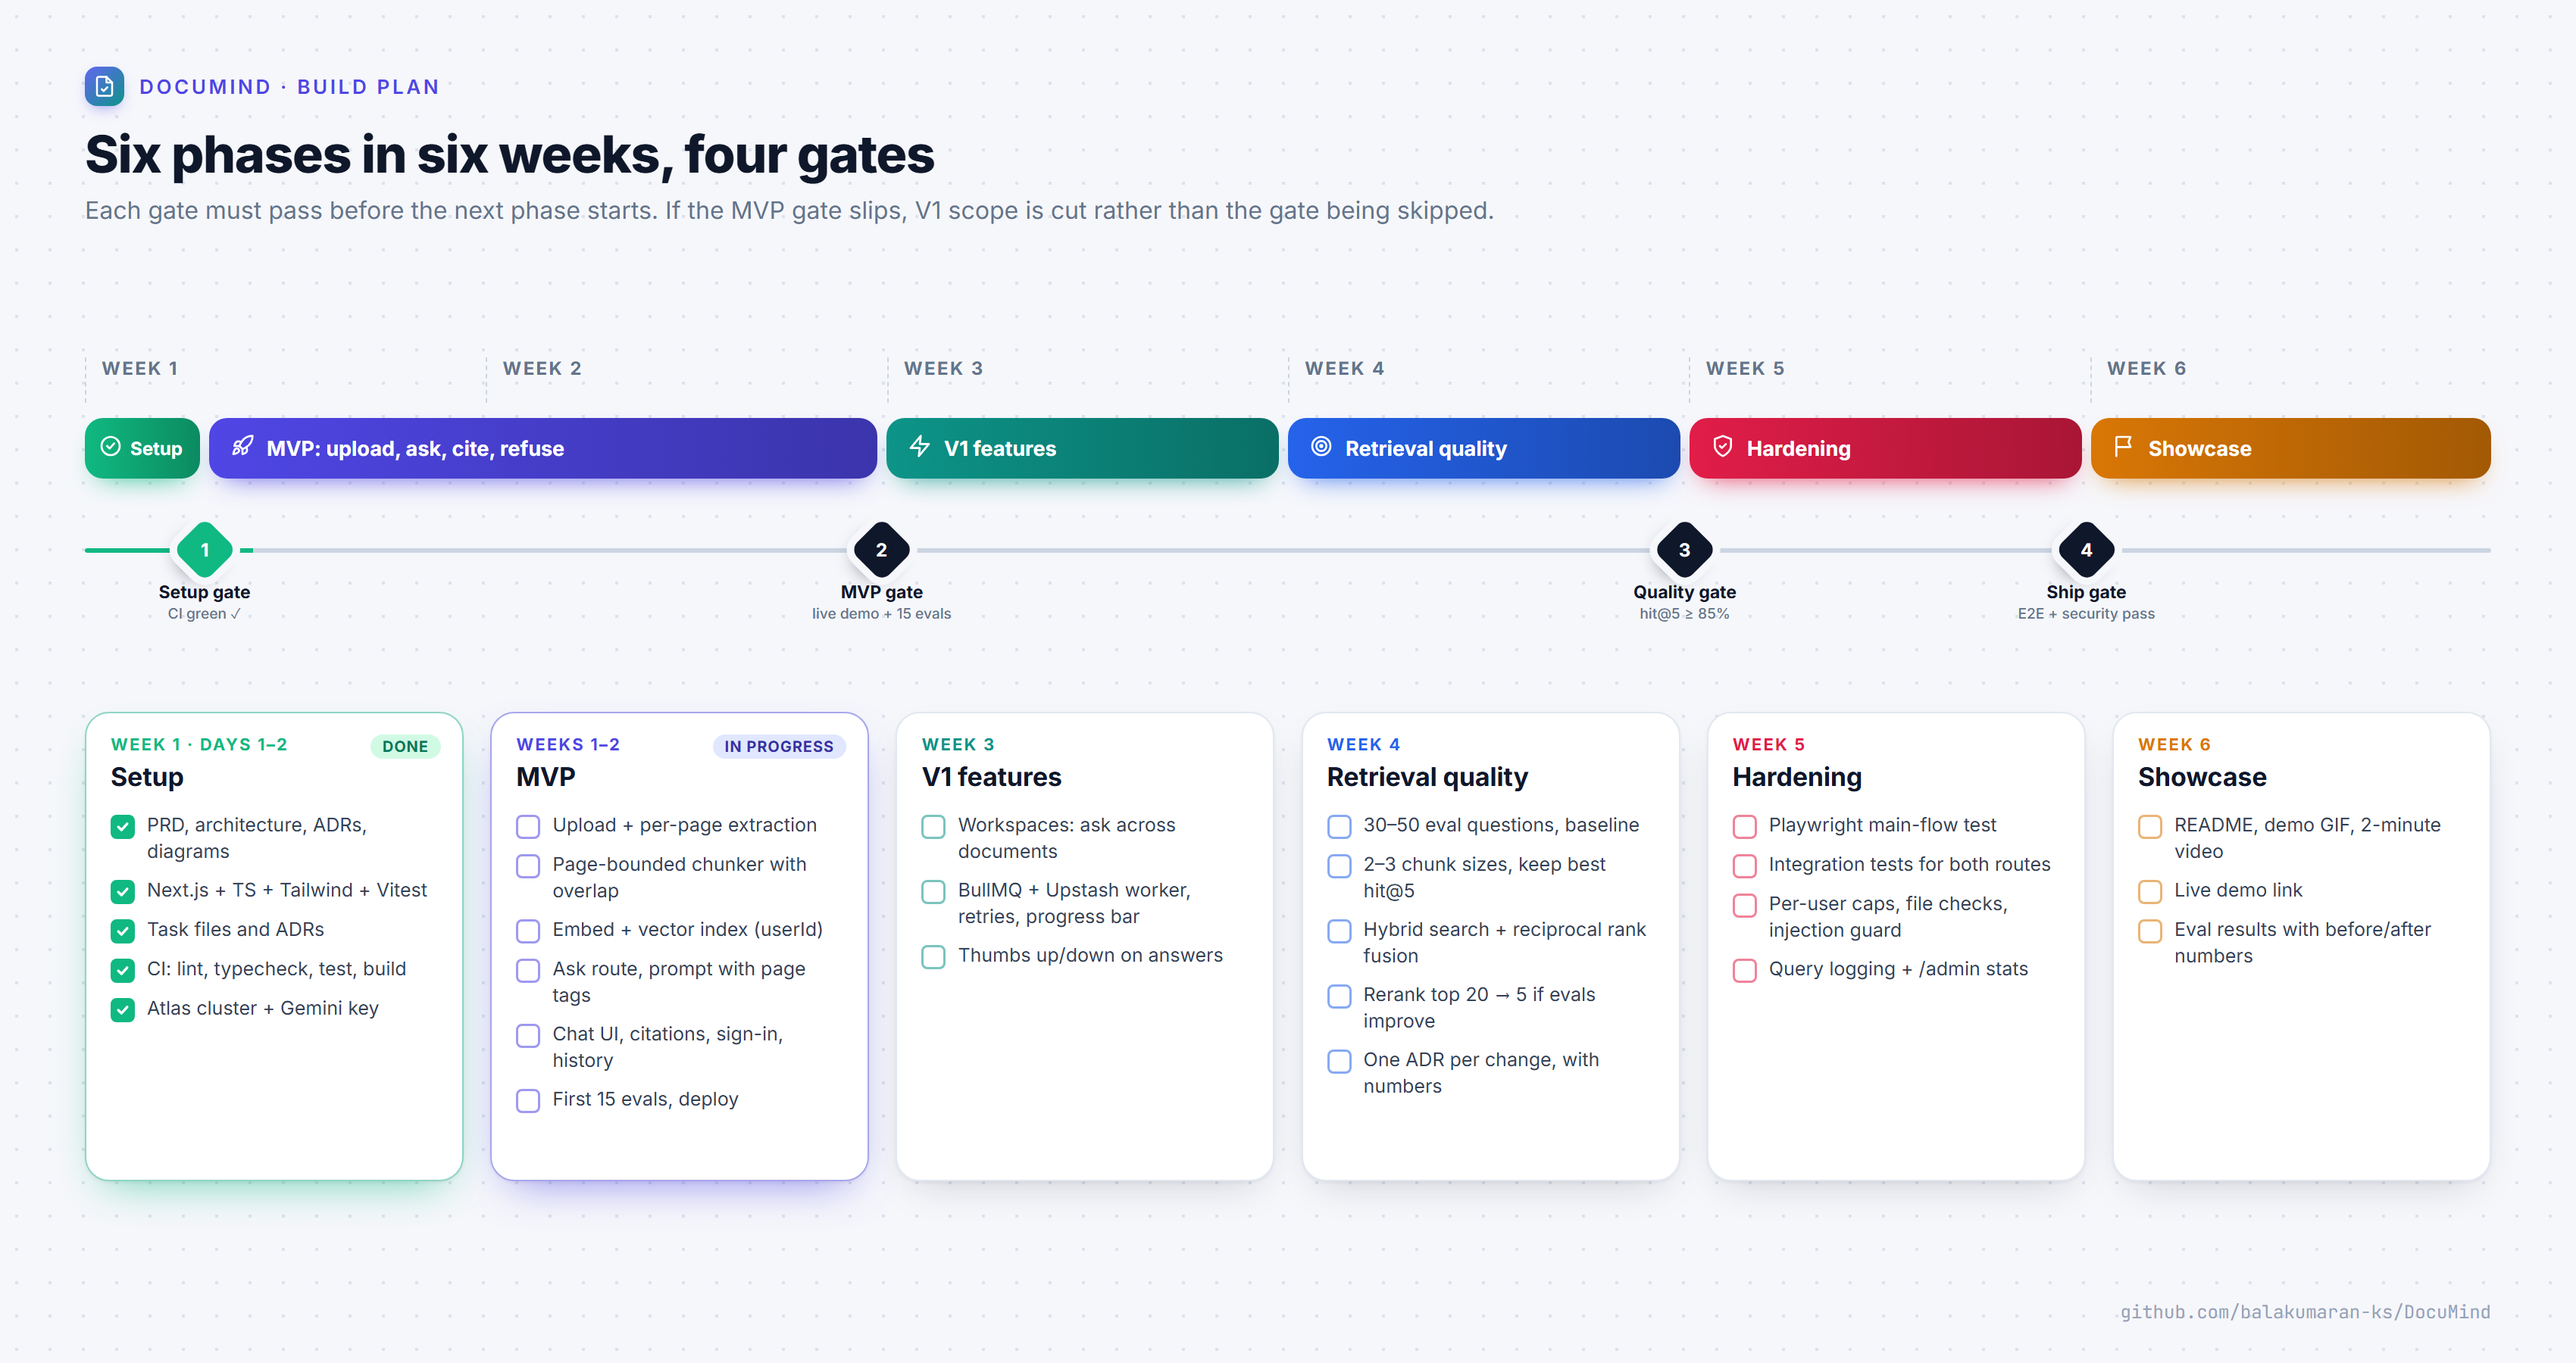
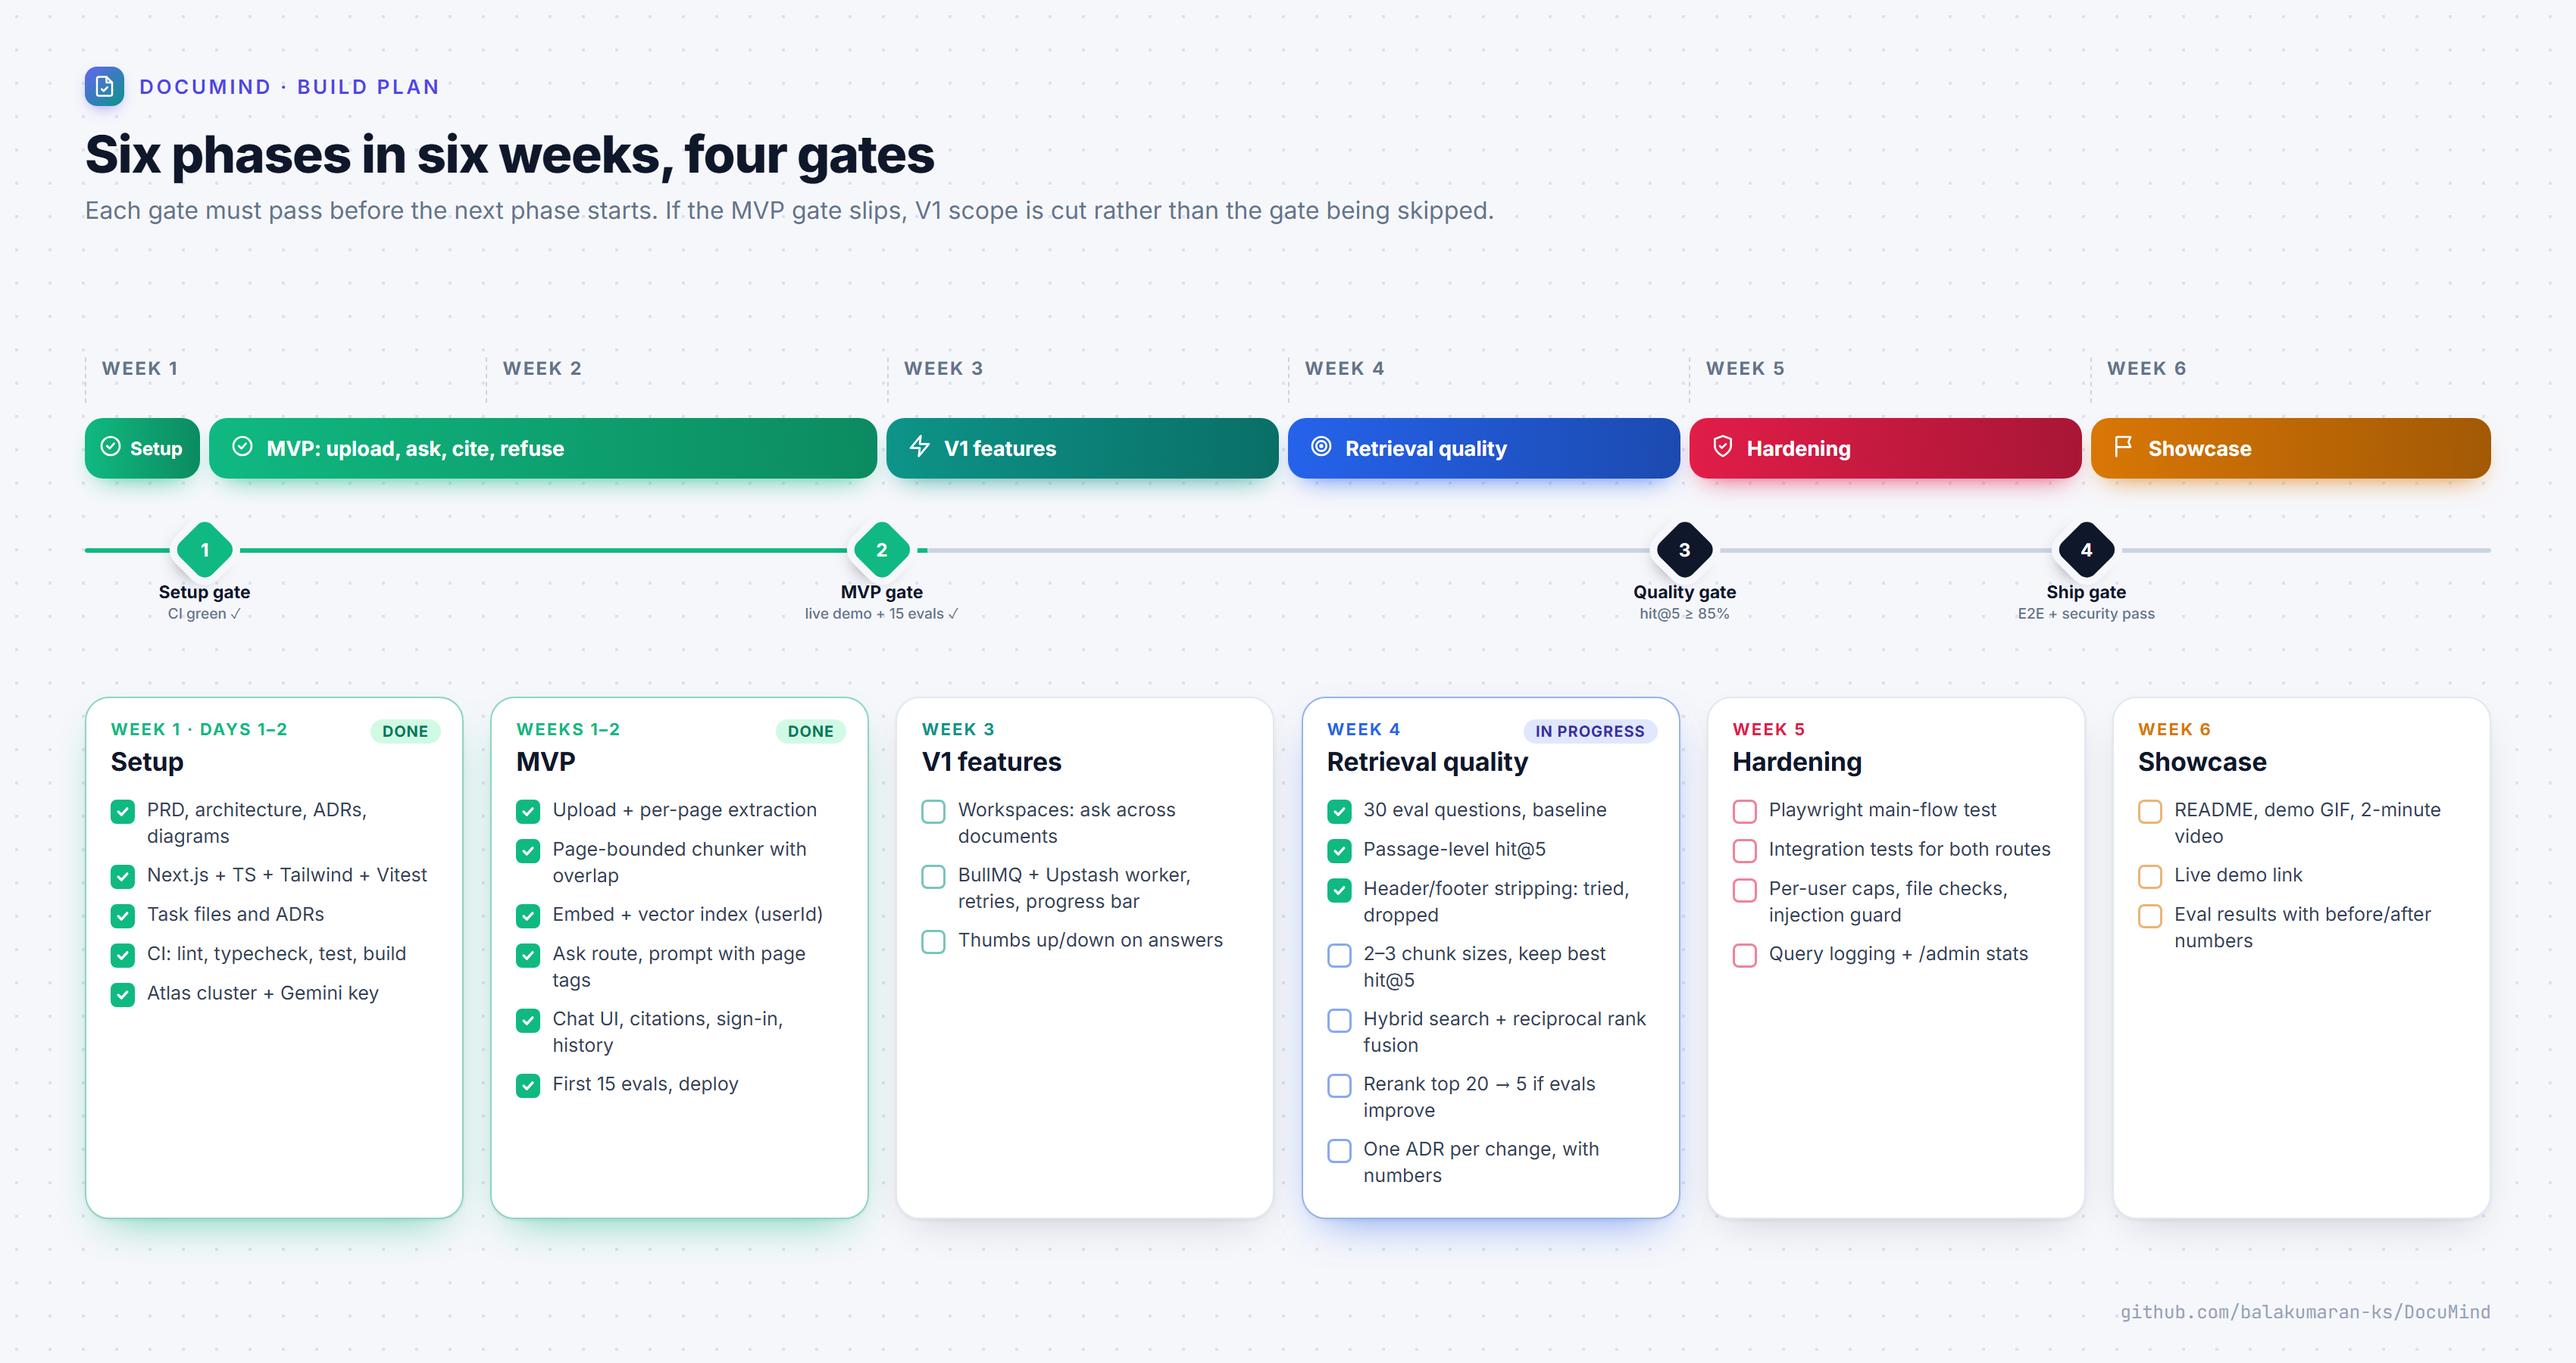
Mark the MVP done and retrieval quality in progress on the roadmap

diff --git a/docs/diagrams/roadmap.html b/docs/diagrams/roadmap.html
@@ -95,14 +95,14 @@
         width: 1588px;
         height: 3px;
         border-radius: 2px;
-        background: linear-gradient(90deg, #10b981 0 7%, #cbd5e1 7% 100%);
+        background: linear-gradient(90deg, #10b981 0 35%, #cbd5e1 35% 100%);
       }
       .phase {
         position: absolute;
         z-index: 3;
-        top: 470px;
+        top: 460px;
         width: 250px;
-        height: 310px;
+        height: 345px;
         flex-direction: column;
         gap: 0;
       }
@@ -188,7 +188,7 @@
 
     <!-- one week = 264.67px starting at x=56 -->
     <div class="bar" style="--c: #10b981; left: 56px; width: 76px; padding: 0 9px; gap: 5px; font-size: 12px"><span data-icon="check"></span>Setup</div>
-    <div class="bar" style="--c: var(--indigo); left: 138px; width: 441px"><span data-icon="rocket"></span>MVP: upload, ask, cite, refuse</div>
+    <div class="bar" style="--c: #10b981; left: 138px; width: 441px"><span data-icon="check"></span>MVP: upload, ask, cite, refuse</div>
     <div class="bar" style="--c: var(--teal); left: 585px; width: 259px"><span data-icon="zap"></span>V1 features</div>
     <div class="bar" style="--c: var(--blue); left: 850px; width: 259px"><span data-icon="target"></span>Retrieval quality</div>
     <div class="bar" style="--c: var(--rose); left: 1115px; width: 259px"><span data-icon="shield"></span>Hardening</div>
@@ -196,7 +196,7 @@
 
     <div class="rail"></div>
     <div class="gate" style="left: 135px"><div class="diamond" style="background: #10b981"><b>1</b></div><div class="glabel">Setup gate<small>CI green &check;</small></div></div>
-    <div class="gate" style="left: 582px"><div class="diamond"><b>2</b></div><div class="glabel">MVP gate<small>live demo + 15 evals</small></div></div>
+    <div class="gate" style="left: 582px"><div class="diamond" style="background: #10b981"><b>2</b></div><div class="glabel">MVP gate<small>live demo + 15 evals &check;</small></div></div>
     <div class="gate" style="left: 1112px"><div class="diamond"><b>3</b></div><div class="glabel">Quality gate<small>hit@5 &ge; 85%</small></div></div>
     <div class="gate" style="left: 1377px"><div class="diamond"><b>4</b></div><div class="glabel">Ship gate<small>E2E + security pass</small></div></div>
 
@@ -212,17 +212,17 @@
         <li class="done">Atlas cluster + Gemini key</li>
       </ul>
     </div>
-    <div class="node phase accent" style="--c: var(--indigo); left: 323.6px">
-      <span class="status next">IN PROGRESS</span>
+    <div class="node phase accent" style="--c: #10b981; left: 323.6px">
+      <span class="status done">DONE</span>
       <div class="wk">Weeks 1&ndash;2</div>
       <div class="title">MVP</div>
       <ul>
-        <li>Upload + per-page extraction</li>
-        <li>Page-bounded chunker with overlap</li>
-        <li>Embed + vector index (userId)</li>
-        <li>Ask route, prompt with page tags</li>
-        <li>Chat UI, citations, sign-in, history</li>
-        <li>First 15 evals, deploy</li>
+        <li class="done">Upload + per-page extraction</li>
+        <li class="done">Page-bounded chunker with overlap</li>
+        <li class="done">Embed + vector index (userId)</li>
+        <li class="done">Ask route, prompt with page tags</li>
+        <li class="done">Chat UI, citations, sign-in, history</li>
+        <li class="done">First 15 evals, deploy</li>
       </ul>
     </div>
     <div class="node phase" style="--c: var(--teal); left: 591.2px">
@@ -234,11 +234,14 @@
         <li>Thumbs up/down on answers</li>
       </ul>
     </div>
-    <div class="node phase" style="--c: var(--blue); left: 858.8px">
+    <div class="node phase accent" style="--c: var(--blue); left: 858.8px">
+      <span class="status next">IN PROGRESS</span>
       <div class="wk">Week 4</div>
       <div class="title">Retrieval quality</div>
       <ul>
-        <li>30&ndash;50 eval questions, baseline</li>
+        <li class="done">30 eval questions, baseline</li>
+        <li class="done">Passage-level hit@5</li>
+        <li class="done">Header/footer stripping: tried, dropped</li>
         <li>2&ndash;3 chunk sizes, keep best hit@5</li>
         <li>Hybrid search + reciprocal rank fusion</li>
         <li>Rerank top 20 &rarr; 5 if evals improve</li>
